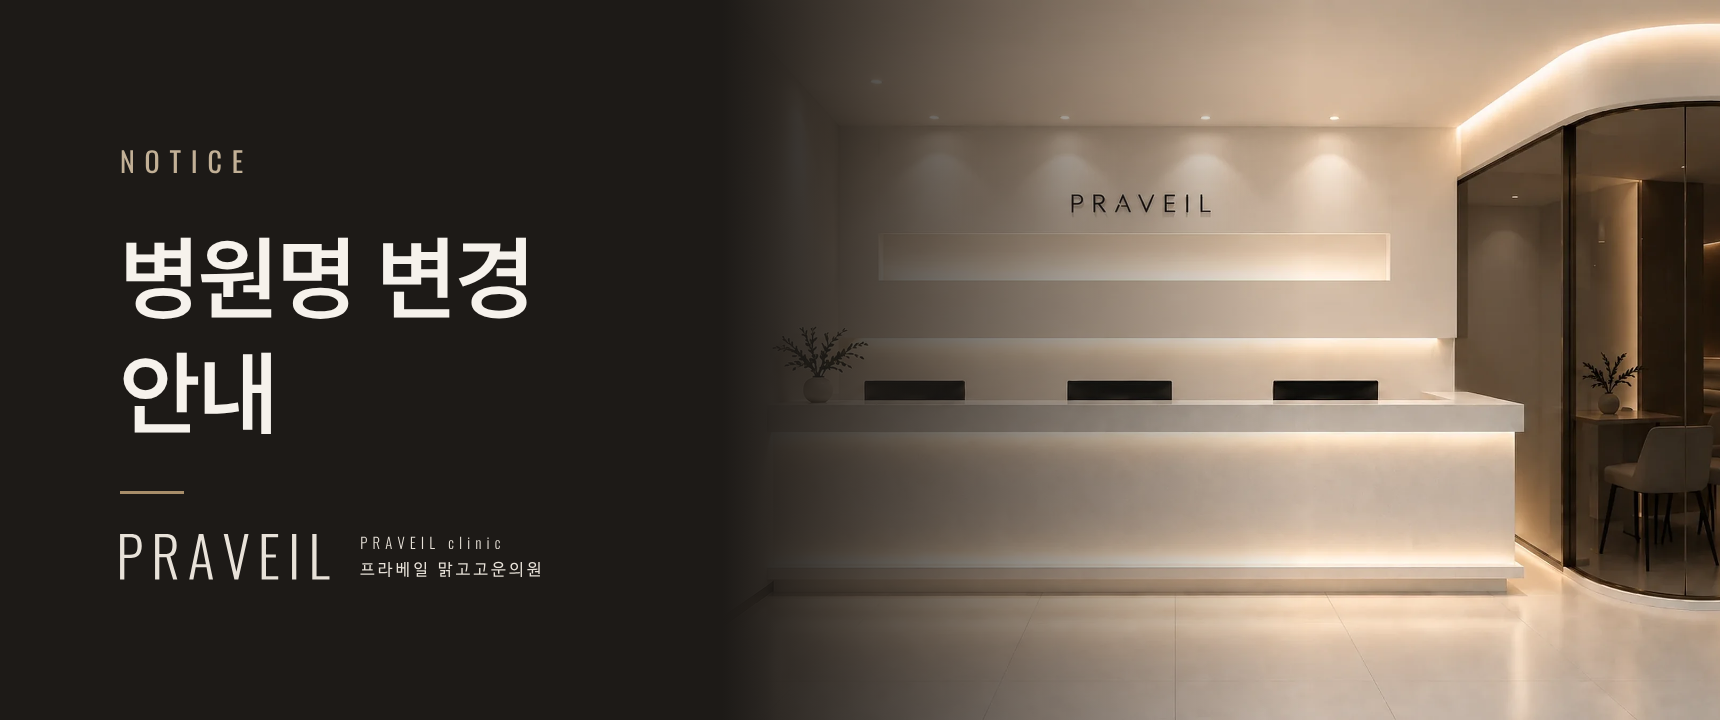
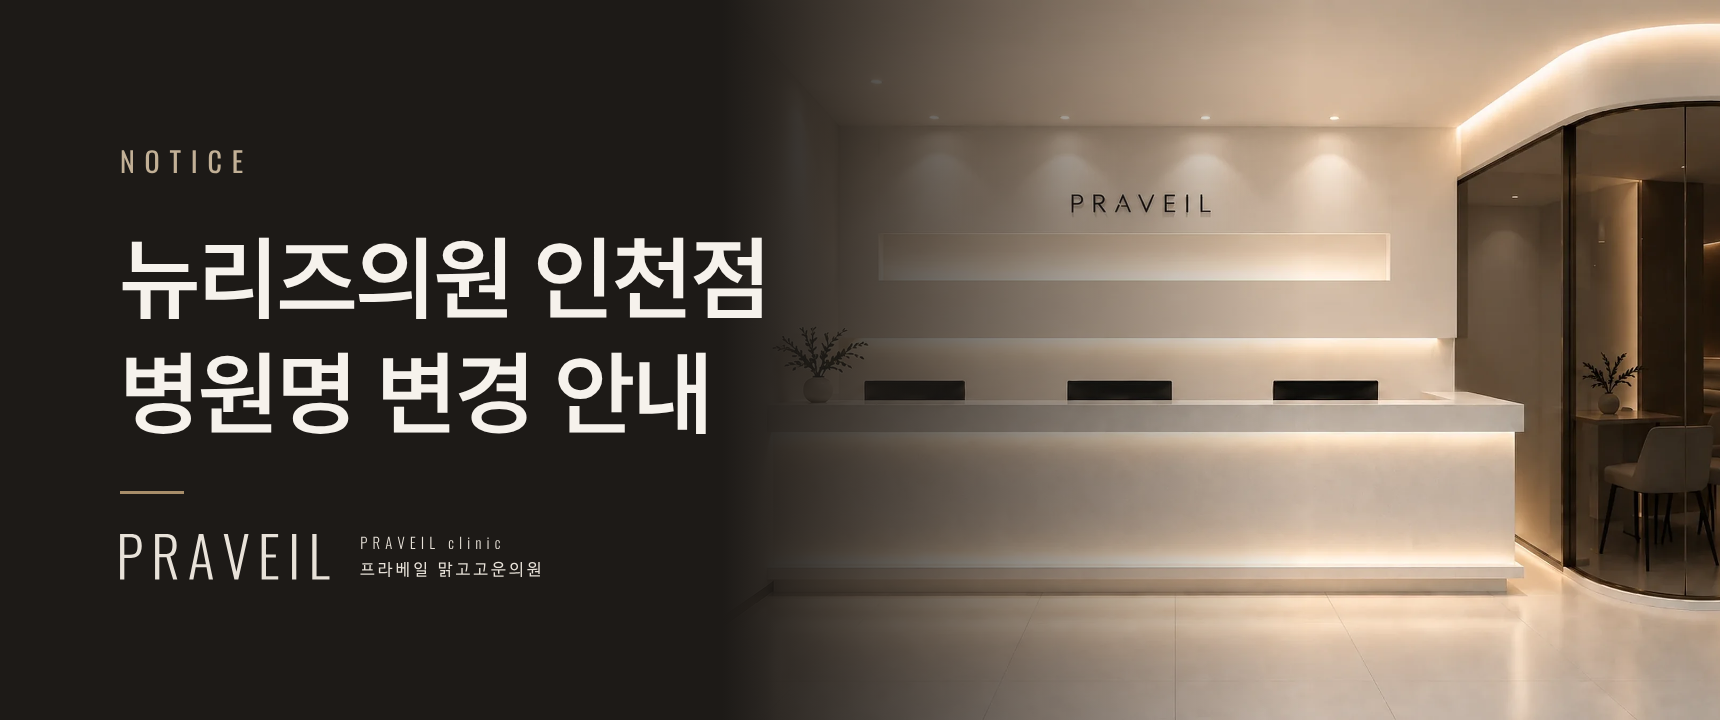
병원명 변경 글 표지 제목을 '뉴리즈의원 인천점 병원명 변경 안내'로
Claude-Session: https://claude.ai/code/session_01Ld2YJmc6iArSkVBjrjkKUN

Changed region(s): [[0.0616, 0.3361, 0.4622, 0.4583], [0.0616, 0.4889, 0.4314, 0.6111]]

diff --git a/docs/naver-blog-skin/posts.html b/docs/naver-blog-skin/posts.html
@@ -451,7 +451,7 @@
       <div class="fade"></div>
       <div class="copy">
         <p class="en">Notice</p>
-        <h1>병원명 변경<br />안내</h1>
+        <h1>뉴리즈의원 인천점<br />병원명 변경 안내</h1>
         <div class="rule"></div>
         <div class="logo">{{LOGO}}</div>
       </div>
